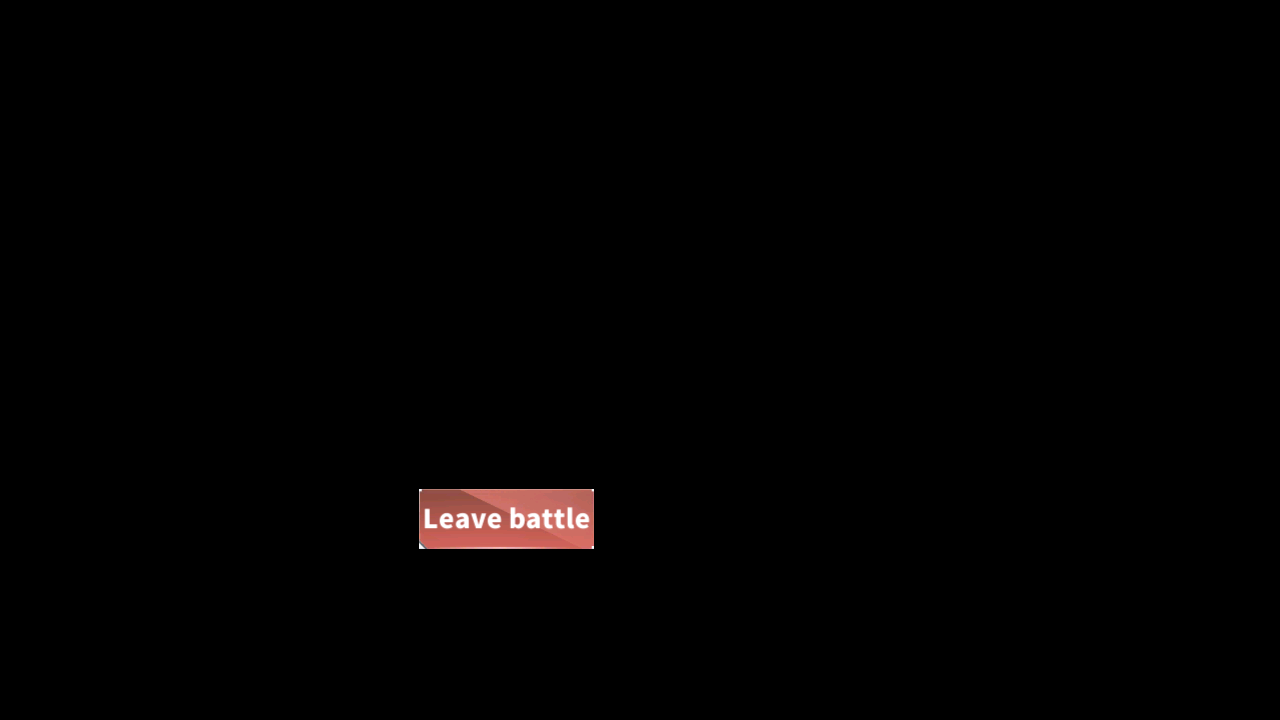
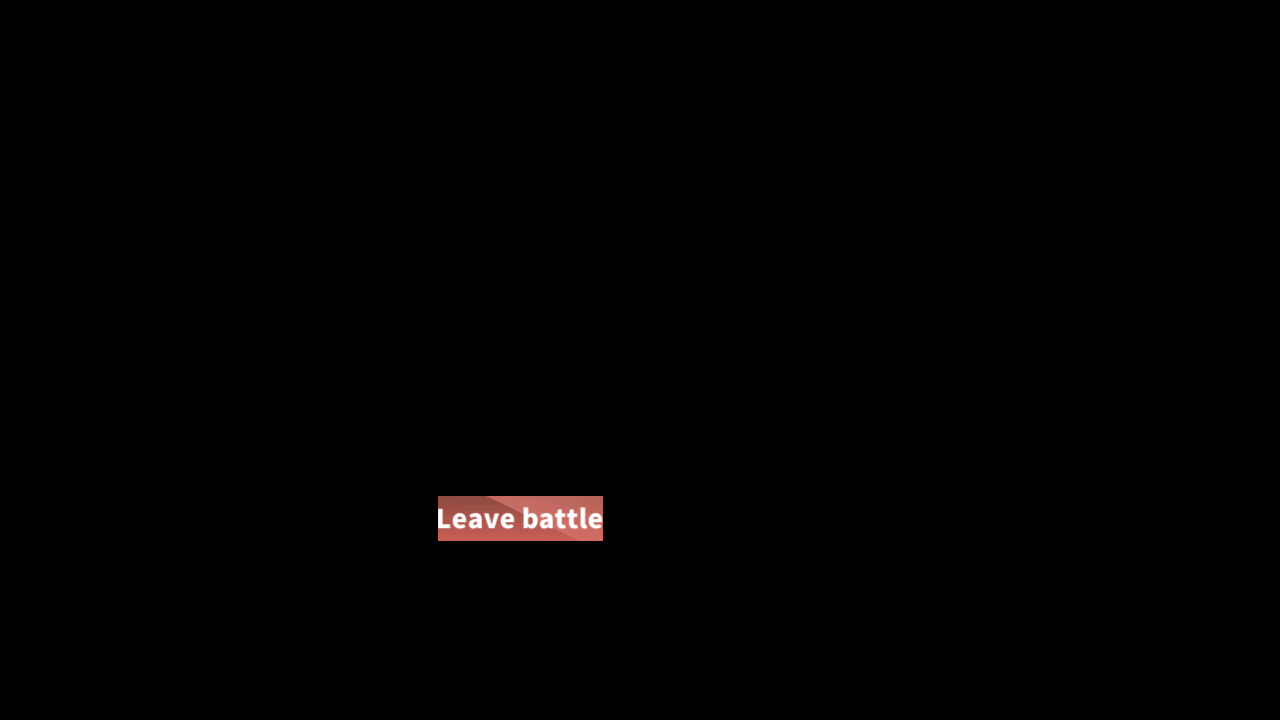
Upd: [EN] QUIT_* assets; post maintenance font change

Changed region(s): [[0.3125, 0.6722, 0.4688, 0.7639]]

diff --git a/module/exercise/assets.py b/module/exercise/assets.py
@@ -17,5 +17,5 @@ OPPONENT_1 = Button(area={'cn': (104, 77, 316, 381), 'en': (102, 76, 318, 381), 
 OPPONENT_2 = Button(area={'cn': (348, 77, 560, 381), 'en': (348, 77, 562, 381), 'jp': (348, 77, 560, 381), 'tw': (348, 77, 560, 381)}, color={'cn': (105, 123, 149), 'en': (105, 122, 150), 'jp': (105, 123, 149), 'tw': (105, 123, 149)}, button={'cn': (348, 77, 560, 381), 'en': (348, 77, 562, 381), 'jp': (348, 77, 560, 381), 'tw': (348, 77, 560, 381)}, file={'cn': './assets/cn/exercise/OPPONENT_2.png', 'en': './assets/en/exercise/OPPONENT_2.png', 'jp': './assets/jp/exercise/OPPONENT_2.png', 'tw': './assets/tw/exercise/OPPONENT_2.png'})
 OPPONENT_3 = Button(area={'cn': (592, 77, 804, 381), 'en': (592, 77, 806, 381), 'jp': (592, 77, 804, 381), 'tw': (592, 77, 804, 381)}, color={'cn': (106, 131, 158), 'en': (105, 129, 156), 'jp': (106, 131, 158), 'tw': (106, 131, 158)}, button={'cn': (592, 77, 804, 381), 'en': (592, 77, 806, 381), 'jp': (592, 77, 804, 381), 'tw': (592, 77, 804, 381)}, file={'cn': './assets/cn/exercise/OPPONENT_3.png', 'en': './assets/en/exercise/OPPONENT_3.png', 'jp': './assets/jp/exercise/OPPONENT_3.png', 'tw': './assets/tw/exercise/OPPONENT_3.png'})
 OPPONENT_4 = Button(area={'cn': (836, 77, 1048, 381), 'en': (836, 77, 1050, 381), 'jp': (836, 77, 1048, 381), 'tw': (836, 77, 1048, 381)}, color={'cn': (103, 118, 141), 'en': (112, 127, 152), 'jp': (103, 118, 141), 'tw': (103, 118, 141)}, button={'cn': (836, 77, 1048, 381), 'en': (836, 77, 1050, 381), 'jp': (836, 77, 1048, 381), 'tw': (836, 77, 1048, 381)}, file={'cn': './assets/cn/exercise/OPPONENT_4.png', 'en': './assets/en/exercise/OPPONENT_4.png', 'jp': './assets/jp/exercise/OPPONENT_4.png', 'tw': './assets/tw/exercise/OPPONENT_4.png'})
-QUIT_CONFIRM = Button(area={'cn': (420, 490, 593, 548), 'en': (419, 489, 594, 549), 'jp': (433, 490, 606, 547), 'tw': (433, 490, 606, 547)}, color={'cn': (199, 122, 114), 'en': (201, 123, 115), 'jp': (196, 120, 113), 'tw': (200, 126, 118)}, button={'cn': (420, 490, 593, 548), 'en': (419, 489, 594, 549), 'jp': (433, 490, 606, 547), 'tw': (433, 490, 606, 547)}, file={'cn': './assets/cn/exercise/QUIT_CONFIRM.png', 'en': './assets/en/exercise/QUIT_CONFIRM.png', 'jp': './assets/jp/exercise/QUIT_CONFIRM.png', 'tw': './assets/tw/exercise/QUIT_CONFIRM.png'})
-QUIT_RECONFIRM = Button(area={'cn': (703, 492, 877, 550), 'en': (710, 488, 870, 532), 'jp': (703, 482, 877, 539), 'tw': (754, 491, 825, 522)}, color={'cn': (195, 111, 102), 'en': (194, 112, 103), 'jp': (193, 112, 104), 'tw': (211, 158, 152)}, button={'cn': (703, 492, 877, 550), 'en': (710, 488, 870, 532), 'jp': (703, 482, 877, 539), 'tw': (703, 502, 876, 559)}, file={'cn': './assets/cn/exercise/QUIT_RECONFIRM.png', 'en': './assets/en/exercise/QUIT_RECONFIRM.png', 'jp': './assets/jp/exercise/QUIT_RECONFIRM.png', 'tw': './assets/tw/exercise/QUIT_RECONFIRM.png'})
+QUIT_CONFIRM = Button(area={'cn': (420, 490, 593, 548), 'en': (438, 496, 603, 541), 'jp': (433, 490, 606, 547), 'tw': (433, 490, 606, 547)}, color={'cn': (199, 122, 114), 'en': (199, 126, 119), 'jp': (196, 120, 113), 'tw': (200, 126, 118)}, button={'cn': (420, 490, 593, 548), 'en': (438, 496, 603, 541), 'jp': (433, 490, 606, 547), 'tw': (433, 490, 606, 547)}, file={'cn': './assets/cn/exercise/QUIT_CONFIRM.png', 'en': './assets/en/exercise/QUIT_CONFIRM.png', 'jp': './assets/jp/exercise/QUIT_CONFIRM.png', 'tw': './assets/tw/exercise/QUIT_CONFIRM.png'})
+QUIT_RECONFIRM = Button(area={'cn': (703, 492, 877, 550), 'en': (731, 488, 846, 533), 'jp': (703, 482, 877, 539), 'tw': (754, 491, 825, 522)}, color={'cn': (195, 111, 102), 'en': (195, 112, 105), 'jp': (193, 112, 104), 'tw': (211, 158, 152)}, button={'cn': (703, 492, 877, 550), 'en': (731, 488, 846, 533), 'jp': (703, 482, 877, 539), 'tw': (703, 502, 876, 559)}, file={'cn': './assets/cn/exercise/QUIT_RECONFIRM.png', 'en': './assets/en/exercise/QUIT_RECONFIRM.png', 'jp': './assets/jp/exercise/QUIT_RECONFIRM.png', 'tw': './assets/tw/exercise/QUIT_RECONFIRM.png'})
